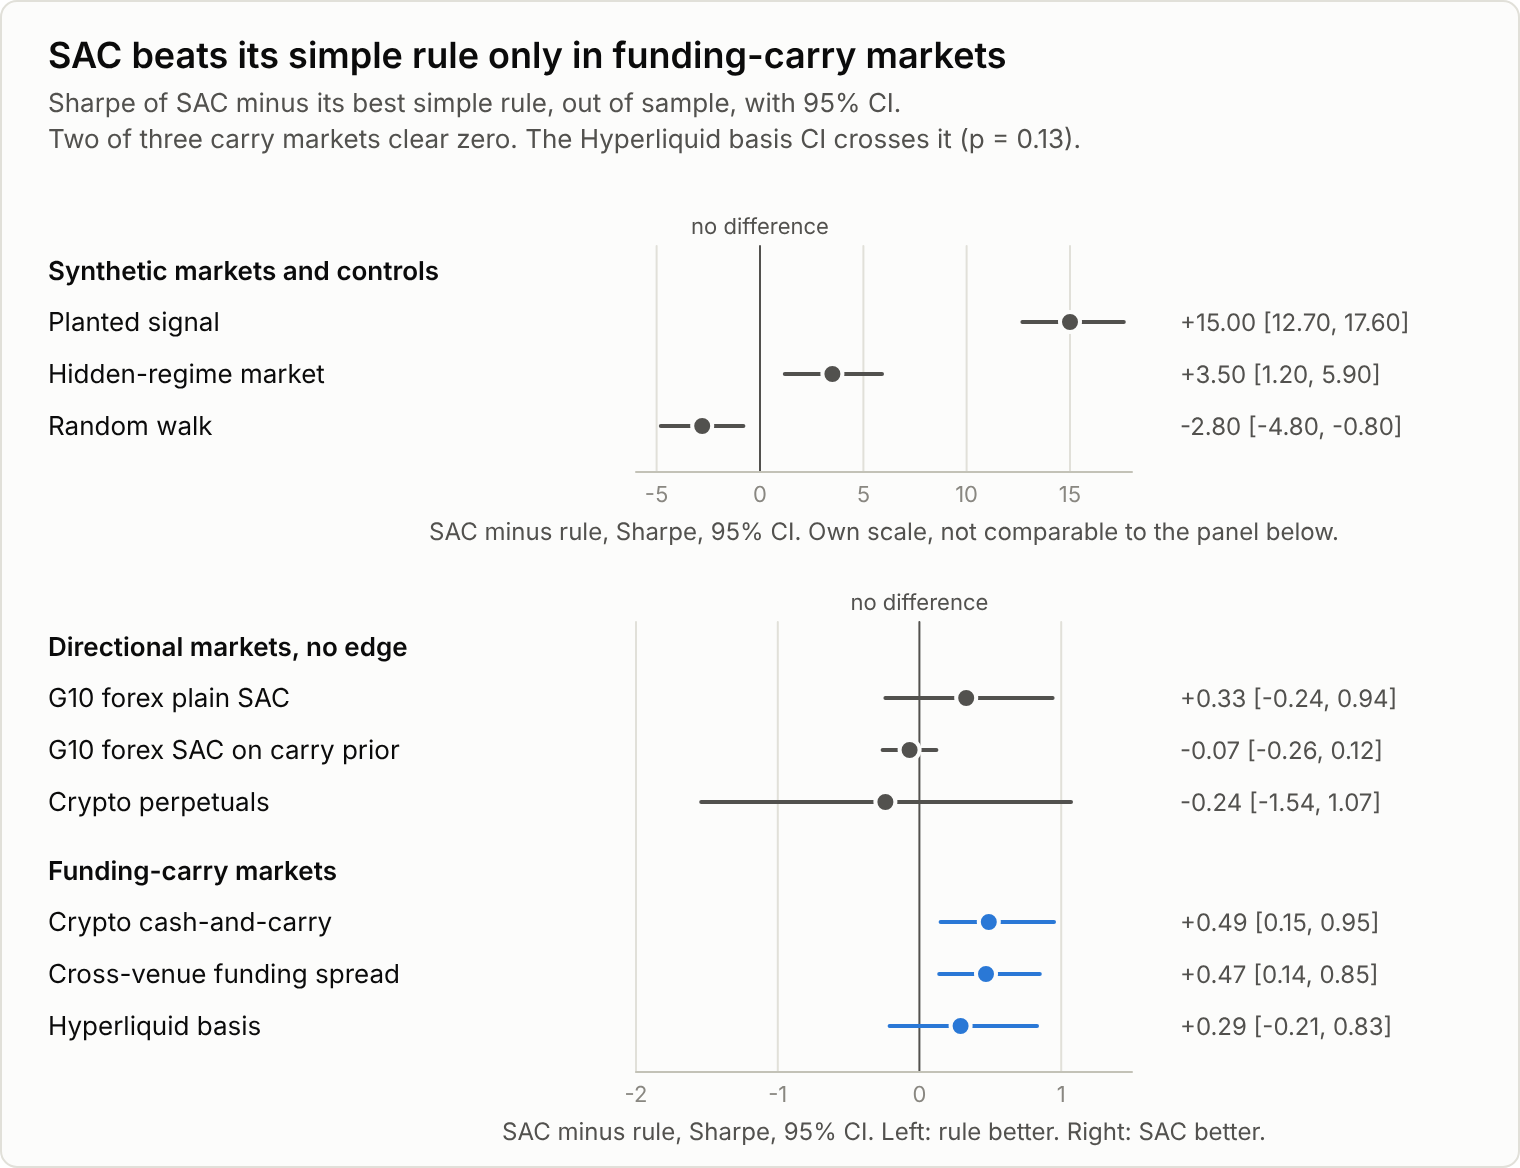
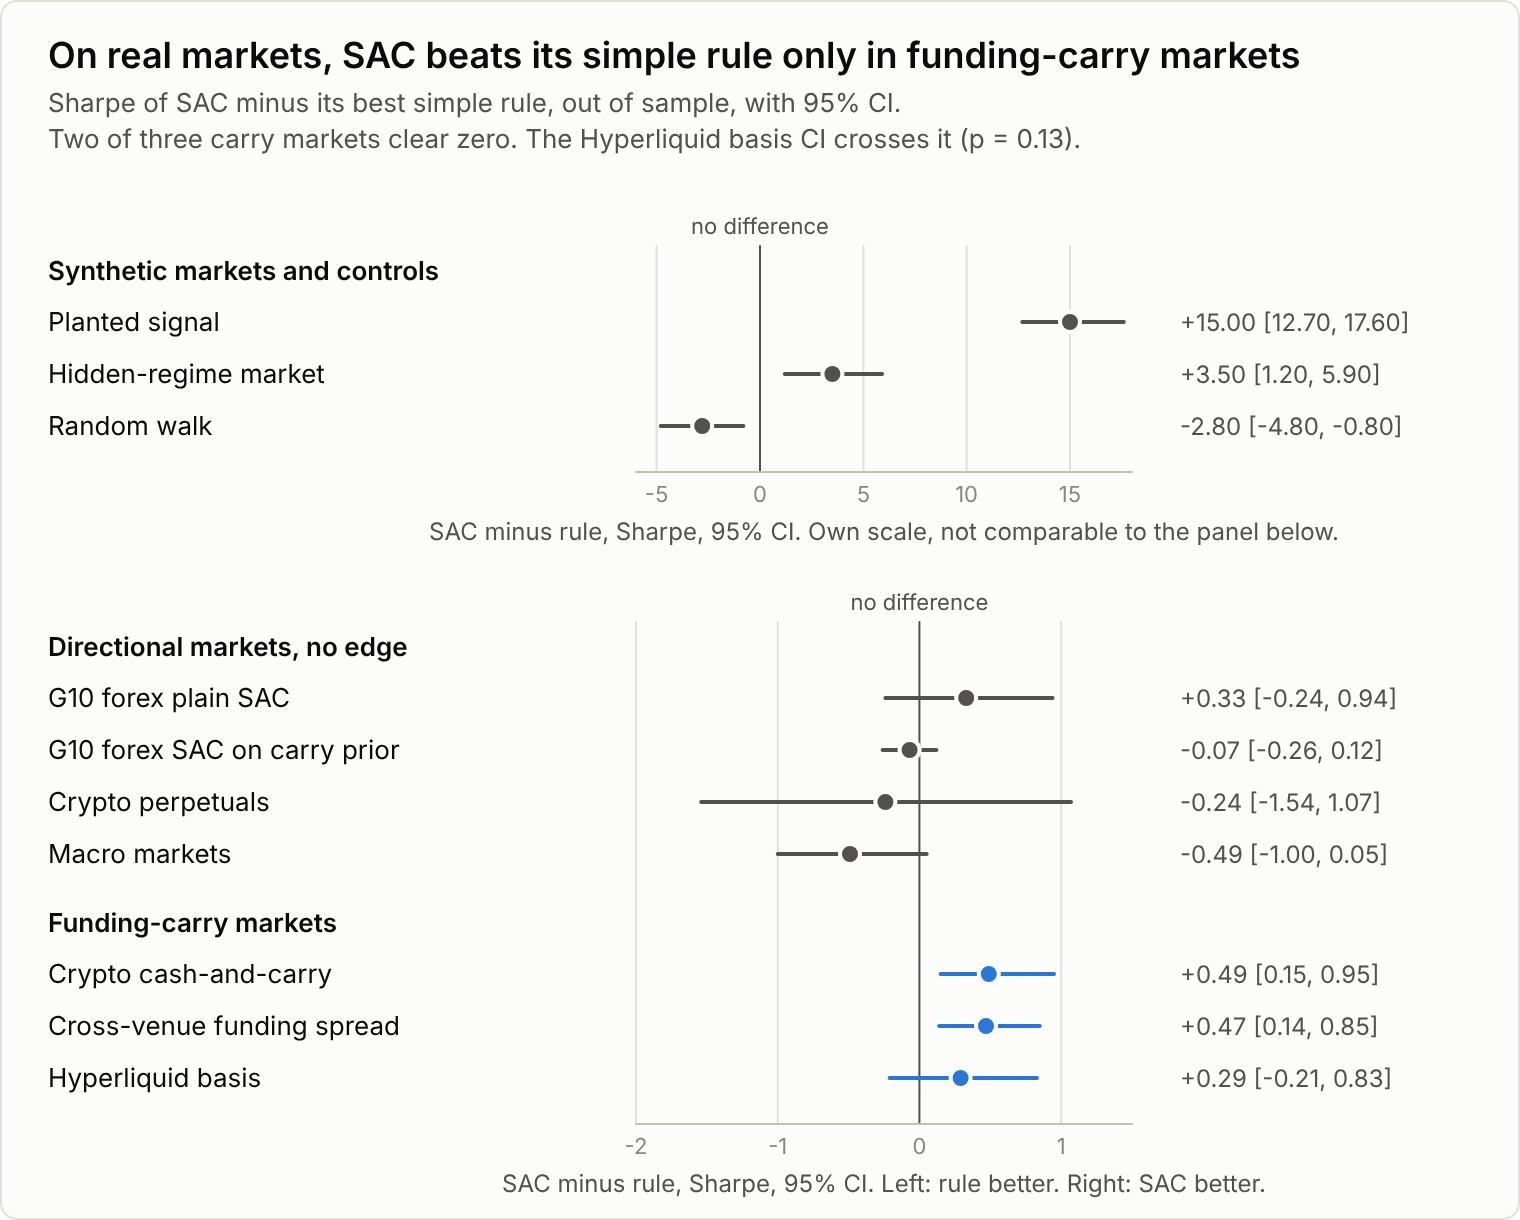
Add macro to the results figure and scope its title to real markets

diff --git a/src/softedge/data/cache.py b/src/softedge/data/cache.py
@@ -13,12 +13,12 @@ from pathlib import Path
 import pandas as pd
 import requests
 
-USER_AGENT = "softedge/0.1 (+https://github.com/landtml/SAC)"
+USER_AGENT = "softedge/0.2 (+https://github.com/landtml/SoftEdge)"
 RETRY_STATUS = {429, 500, 502, 503, 504}
 
 
 def cache_dir(*parts: str) -> Path:
-    # SACTRADER_DATA is the name used before the project was renamed.
+    # SACTRADER_DATA, the variable's name before release 0.2.0, is still read as a fallback.
     root = Path(os.environ.get("SOFTEDGE_DATA") or os.environ.get("SACTRADER_DATA") or "data")
     path = root.joinpath(*parts)
     path.mkdir(parents=True, exist_ok=True)
@@ -83,7 +83,7 @@ def load_frame(path: Path) -> pd.DataFrame:
     table = pq.read_table(path)
     df = table.to_pandas()
     meta = table.schema.metadata or {}
-    # Frames cached before the project was renamed keep their attrs under the old key.
+    # Frames cached by releases before 0.2.0 store their attrs under the key b"sactrader".
     raw = meta.get(b"softedge") or meta.get(b"sactrader")
     df.attrs = json.loads(raw) if raw else {}
     return df

diff --git a/scripts/make_figures.py b/scripts/make_figures.py
@@ -227,7 +227,7 @@ def sac_vs_rule_svg(df: pd.DataFrame) -> str:
     )
     lay = Layout(width=760, label_x=24, plot_x0=318, plot_x1=566, value_x=590)
     return forest_svg(
-        "SAC beats its simple rule only in funding-carry markets",
+        "On real markets, SAC beats its simple rule only in funding-carry markets",
         subtitle,
         "Forest plot: SAC minus its best simple rule, Sharpe, with 95% intervals.",
         (controls, real),
